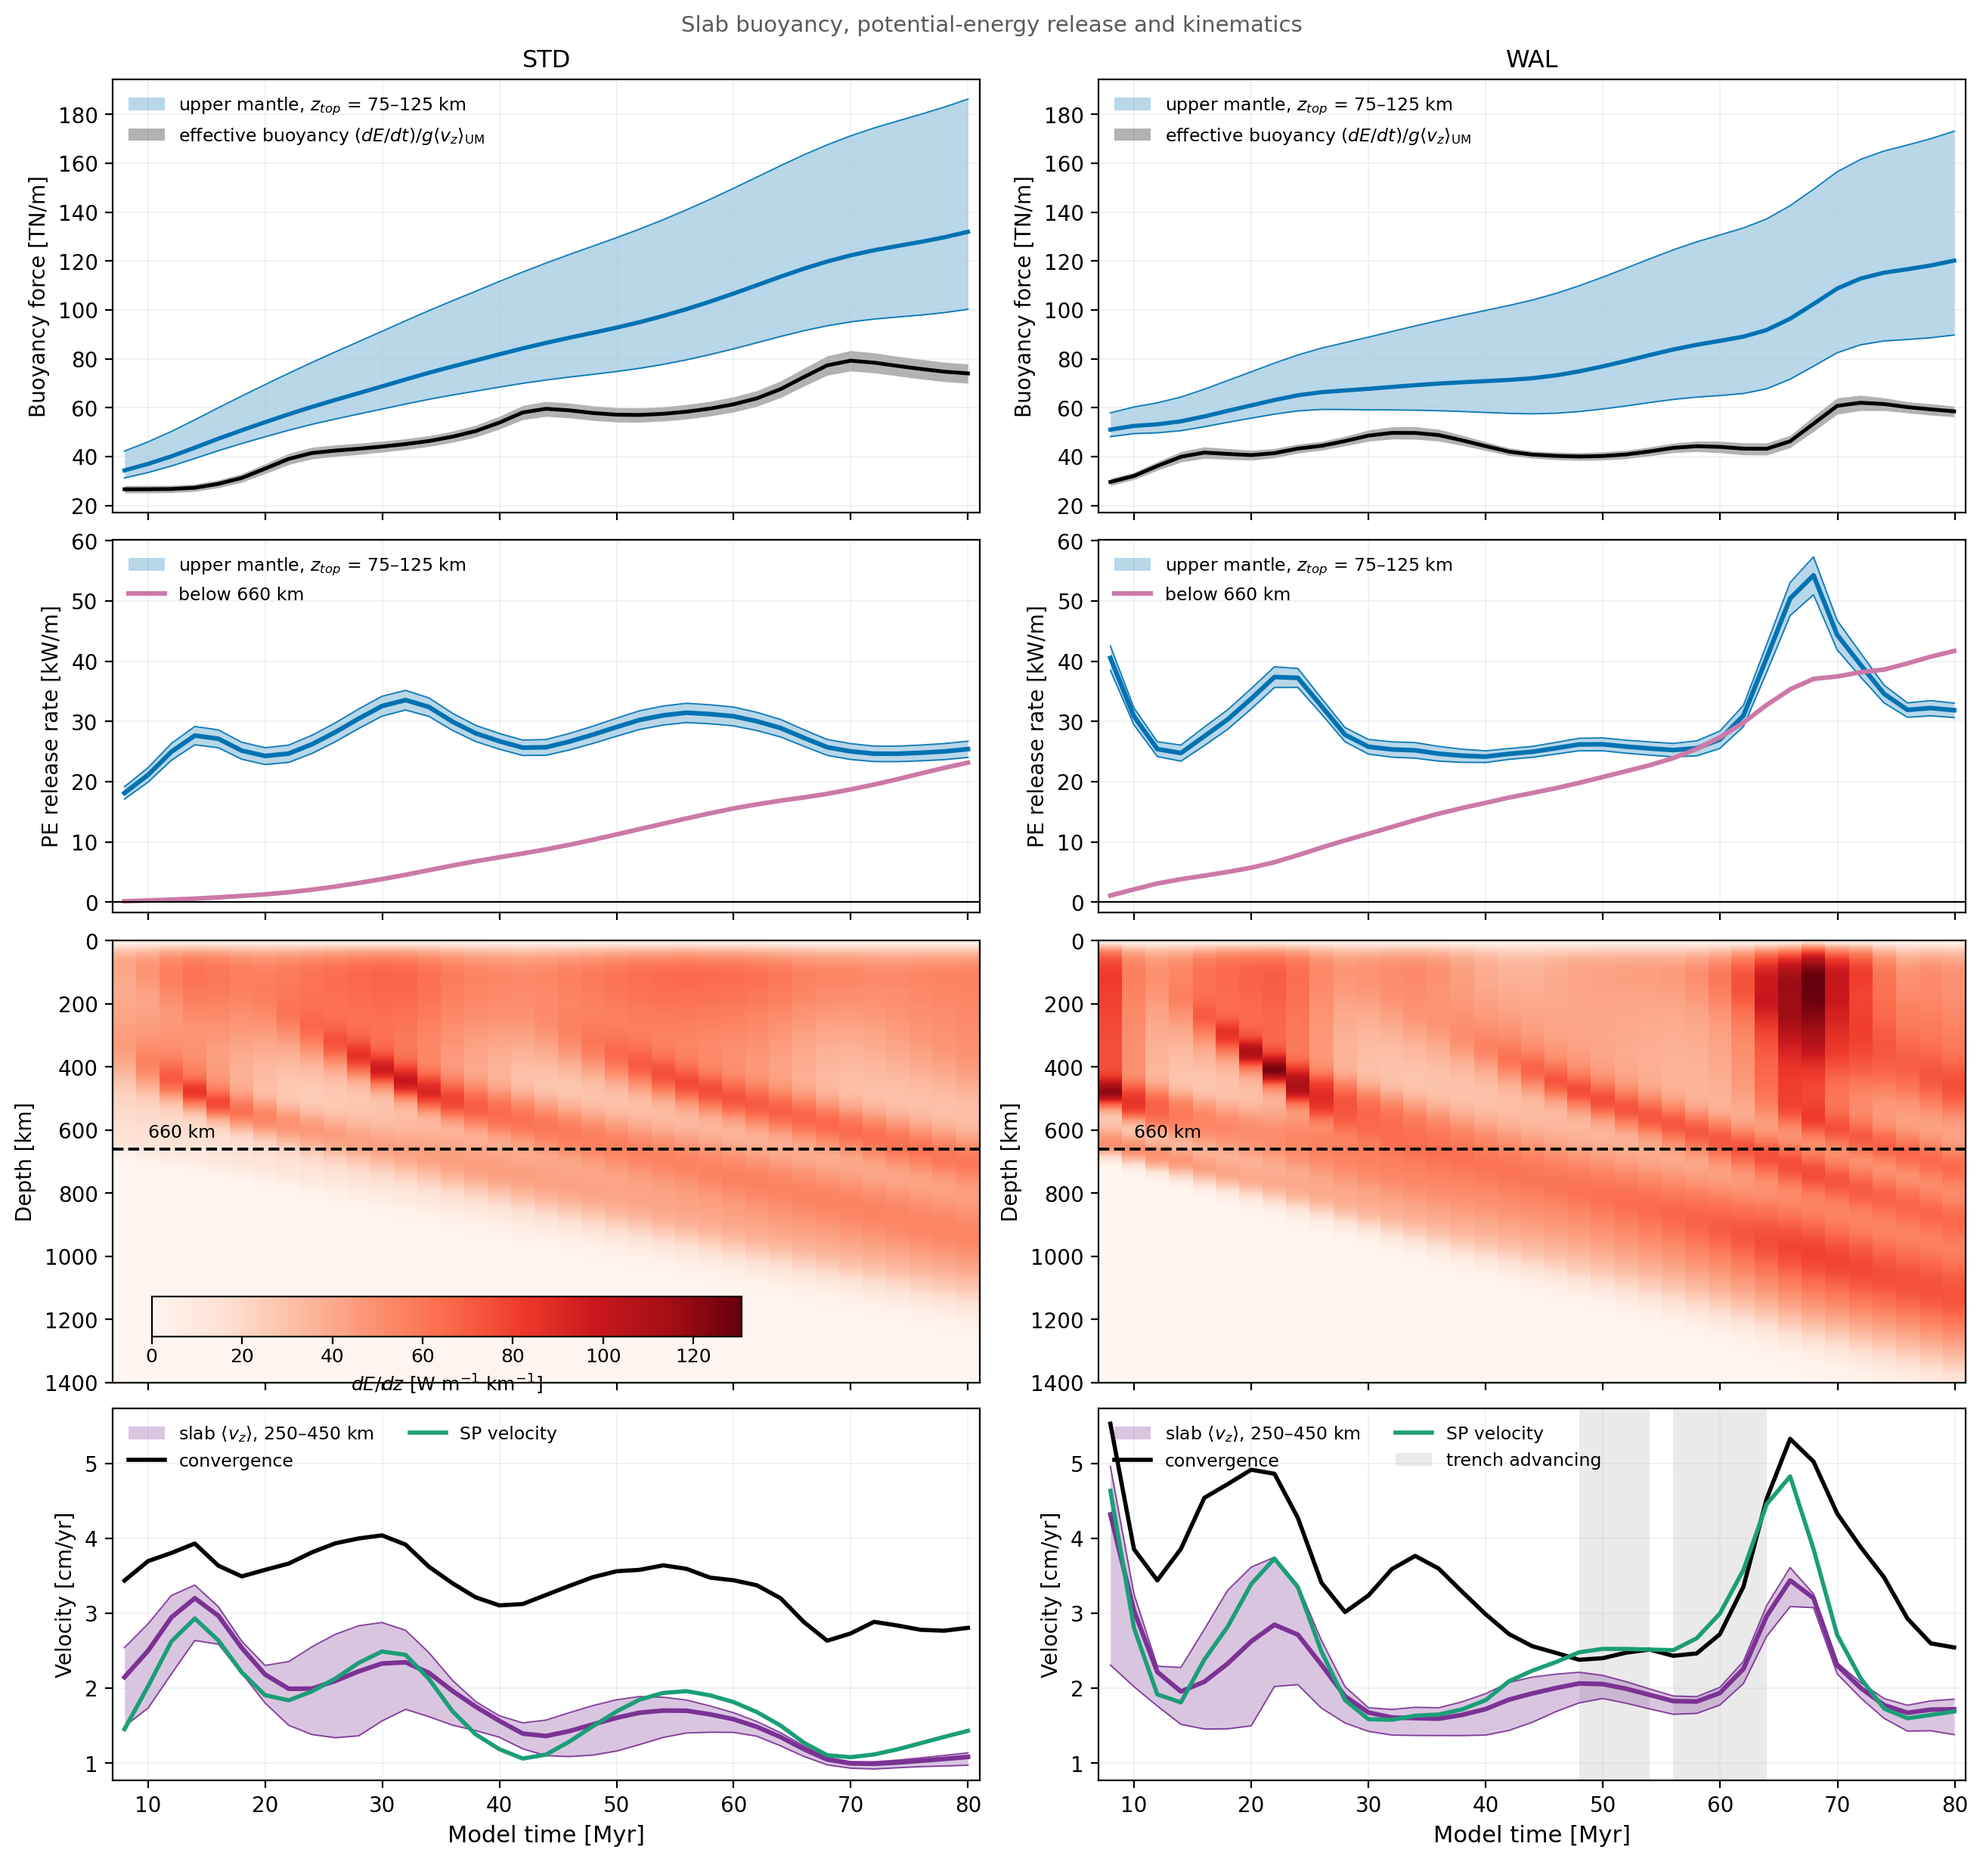
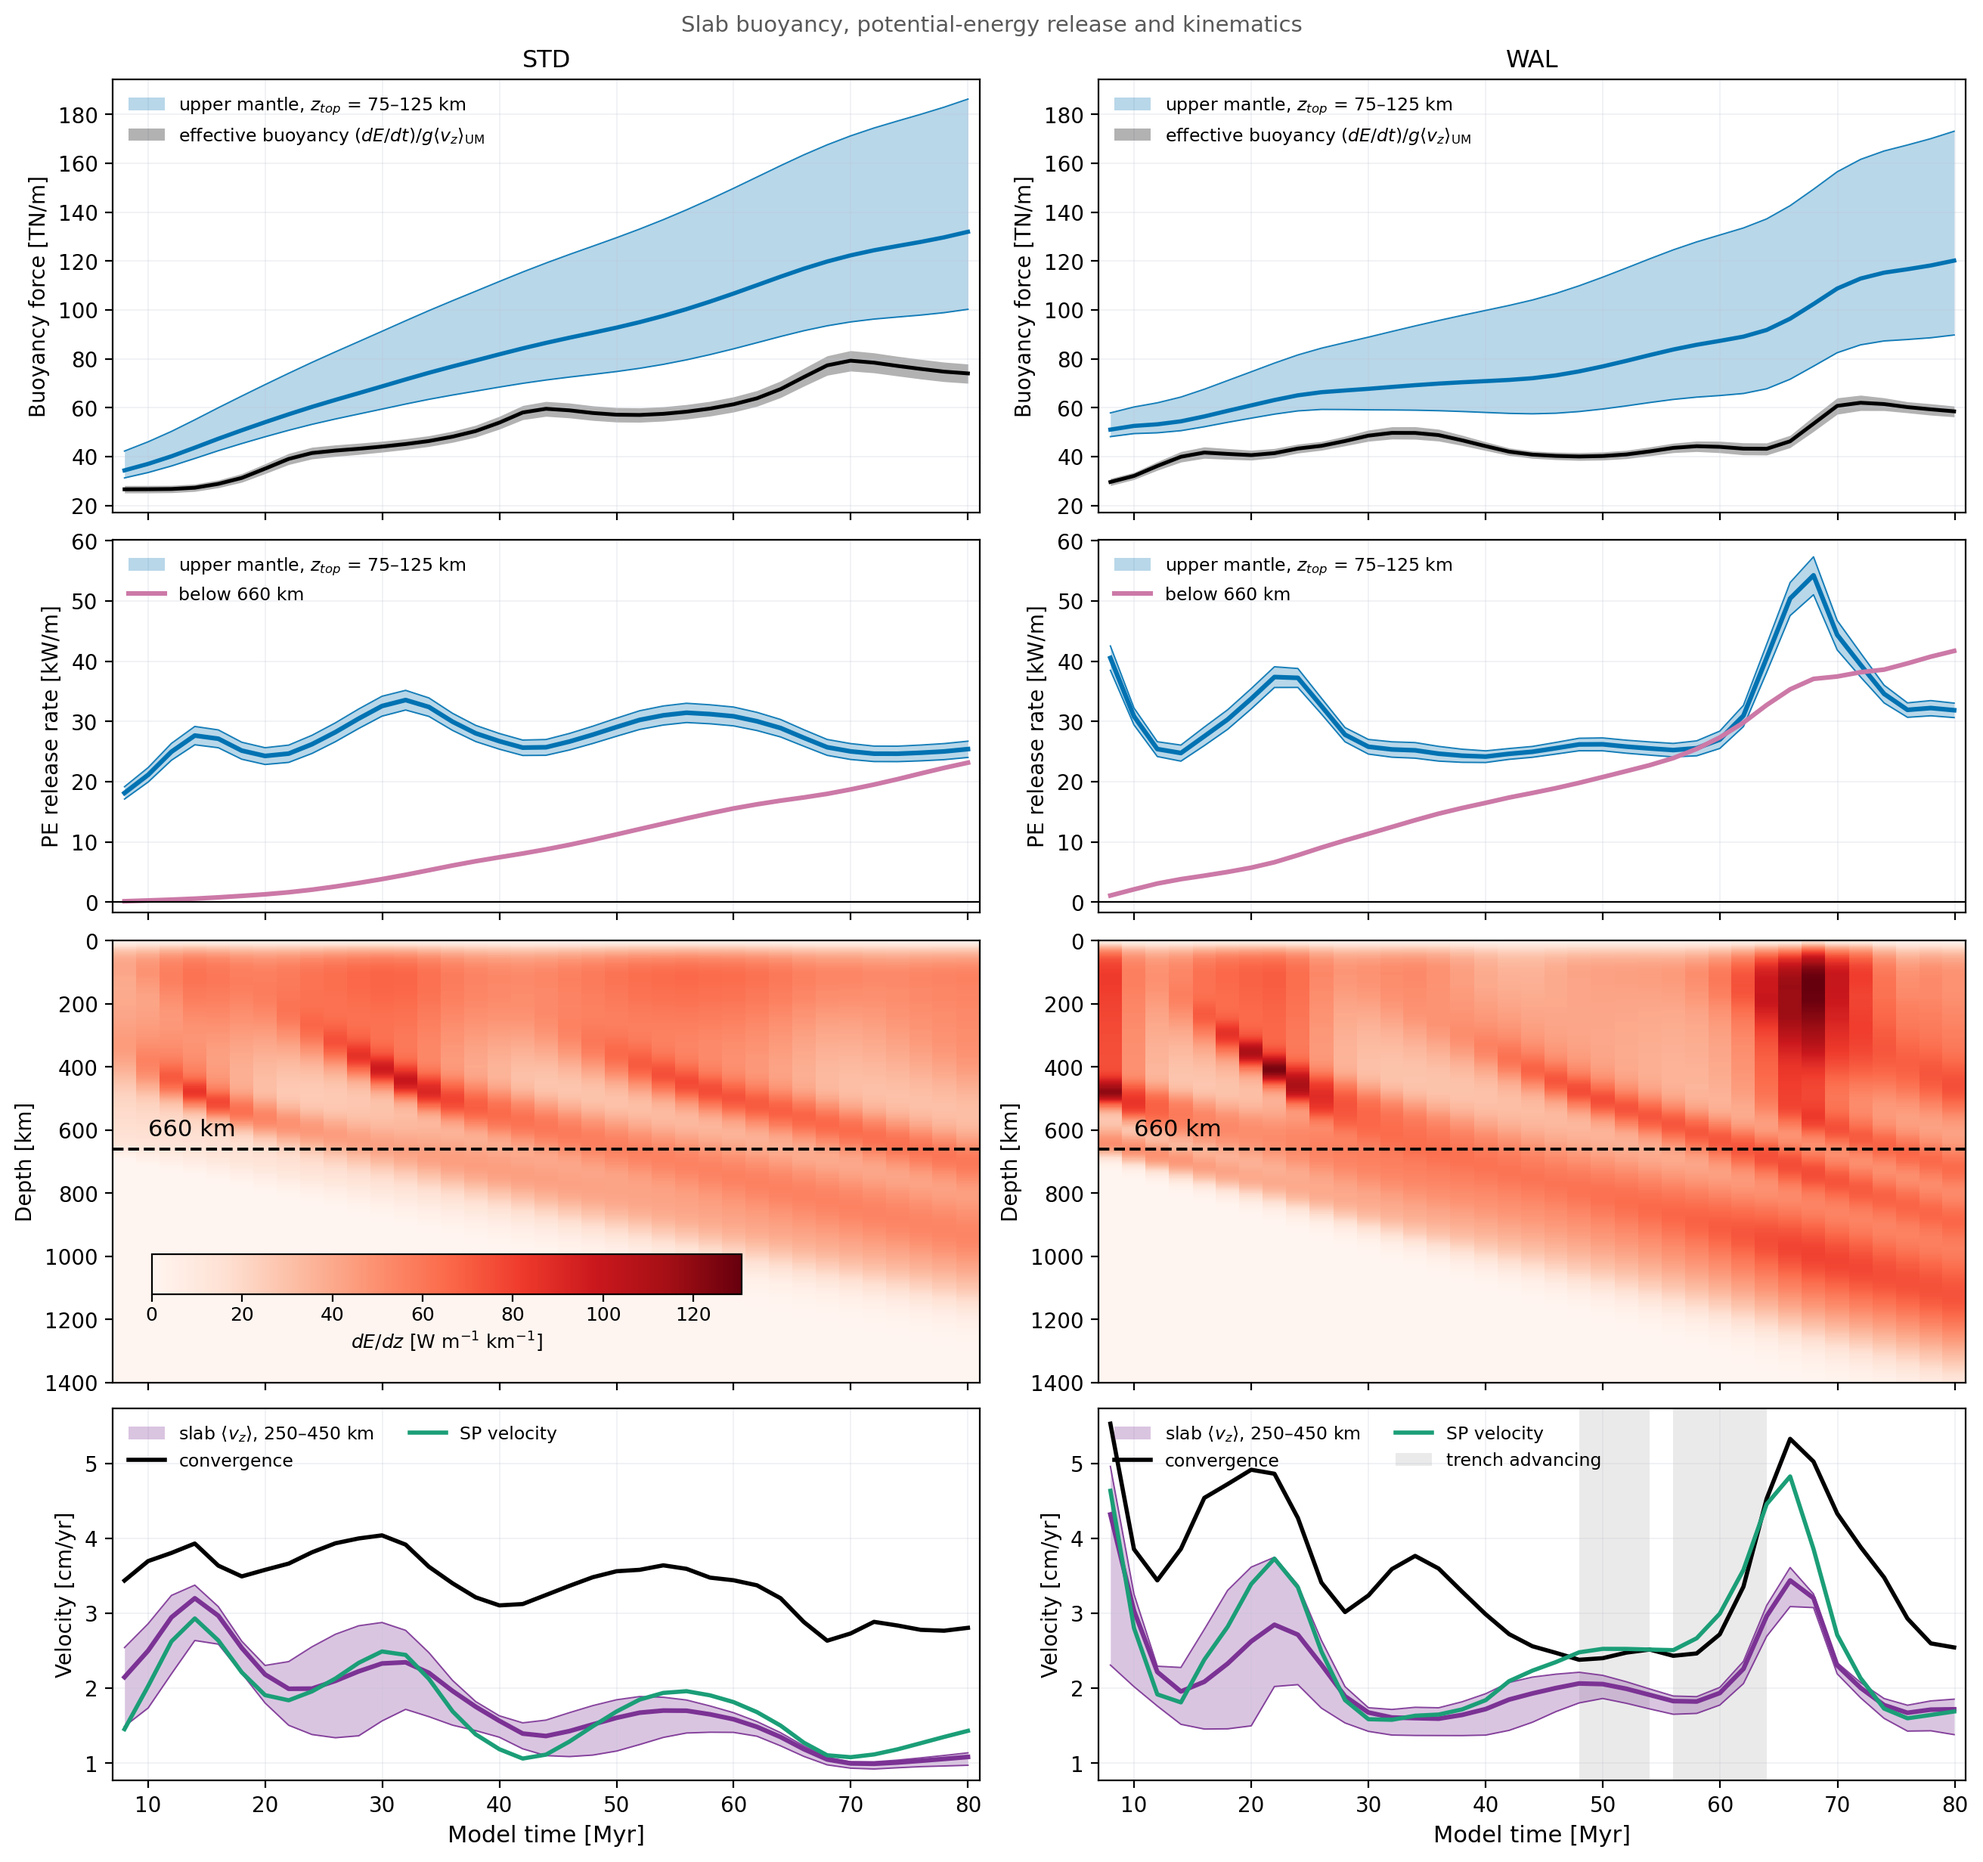
fig_slab_buoyancy_kinematics: raise the inset colourbar, larger 660 km label
Colourbar moved up (bbox y 0.105 -> 0.20) so its label sits inside the
panel; size unchanged. 660 km label 8.5 -> 11 pt.

Changed region(s): [[0.0618, 0.648, 0.4014, 0.7406], [0.5867, 0.5863, 0.6176, 0.6171], [0.0926, 0.5863, 0.1235, 0.6171]]

diff --git a/scripts/fig_slab_buoyancy_kinematics.py b/scripts/fig_slab_buoyancy_kinematics.py
@@ -366,7 +366,7 @@ def main():
         im = a3.pcolormesh(t, z / 1e3, Ei.T, cmap='Reds', shading='nearest',
                            vmin=0.0, vmax=VMAX)
         a3.axhline(Z_660 / 1e3, color='k', lw=1.4, ls='--')
-        a3.text(t[1], Z_660 / 1e3 - 25, '660 km', fontsize=8.5, va='bottom')
+        a3.text(t[1], Z_660 / 1e3 - 28, '660 km', fontsize=11, va='bottom')
         # 1400 km, not 1800: the deepest slab tip in either run is 1312 km
         # (WAL, 78 Myr), so the bottom 400 km was dead space — cut to keep
         # four rows inside the height of the three-row version.
@@ -377,8 +377,10 @@ def main():
         # redundant, and the deep mantle at early times is empty, so the
         # inset covers no data.
         if col == 0:
+            # Raised so the label below it stays inside the panel
+            # (Dan, 2026-09-24); size unchanged.
             cax = inset_axes(a3, width='68%', height='9%', loc='lower left',
-                             bbox_to_anchor=(0.045, 0.105, 1, 1),
+                             bbox_to_anchor=(0.045, 0.20, 1, 1),
                              bbox_transform=a3.transAxes, borderpad=0)
             cb = fig.colorbar(im, cax=cax, orientation='horizontal')
             cb.ax.tick_params(labelsize=9, length=3.5, pad=2)
